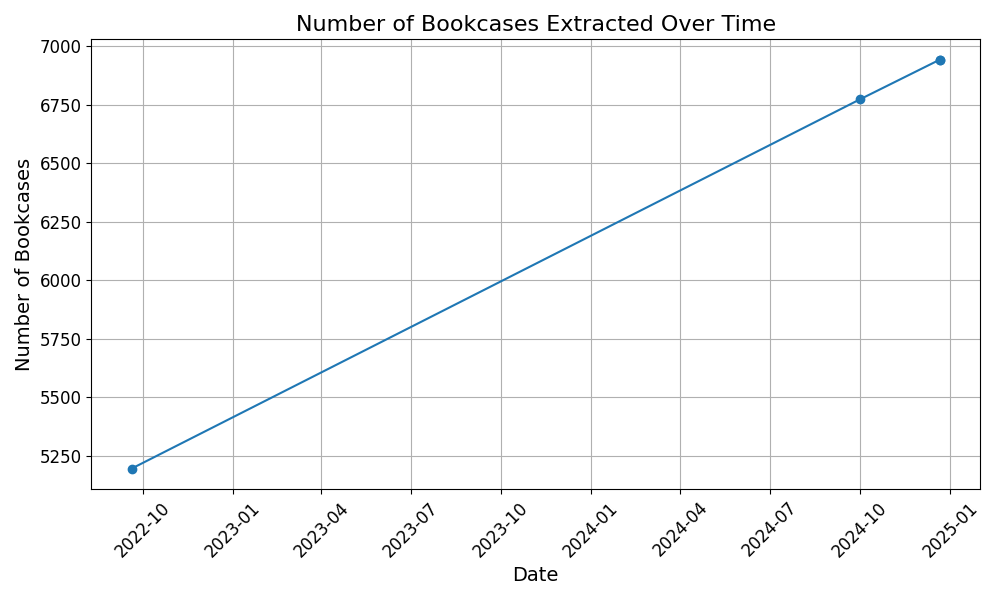
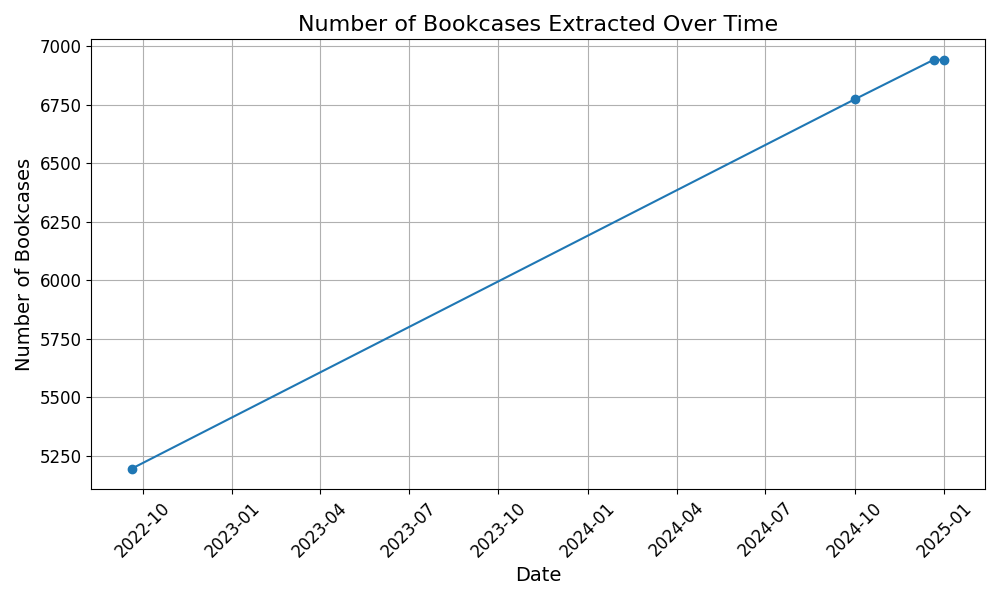
Boite-a-lire 2025-01-01

diff --git a/README.md b/README.md
@@ -1,6 +1,6 @@
 # bookcases-zonelivre
 
-**Data last updated on: 2024-12-21**
+**Data last updated on: 2025-01-01**
 
 Bookcases from zonelivre: https://boite.a.livres.zonelivre.fr/
 
